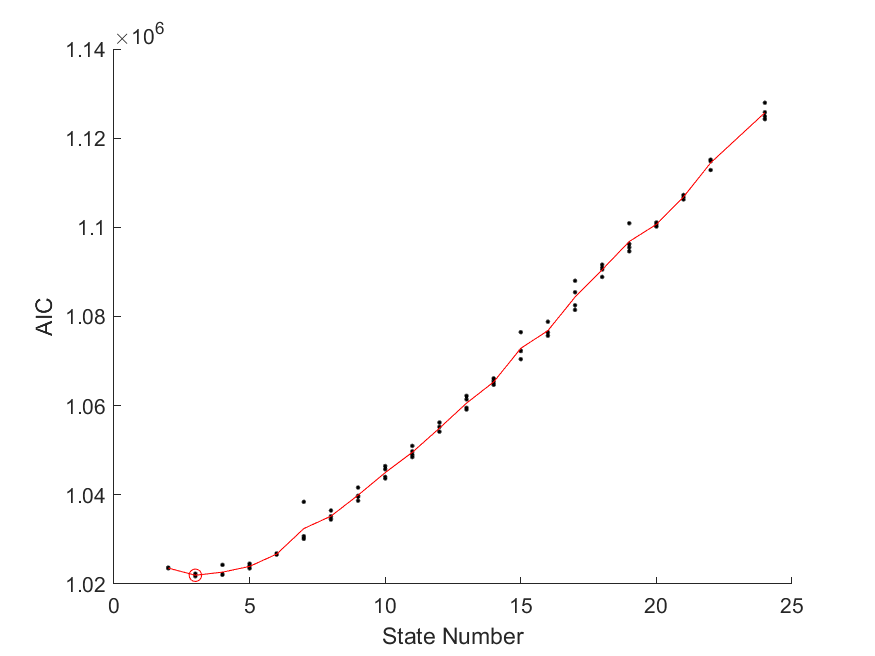
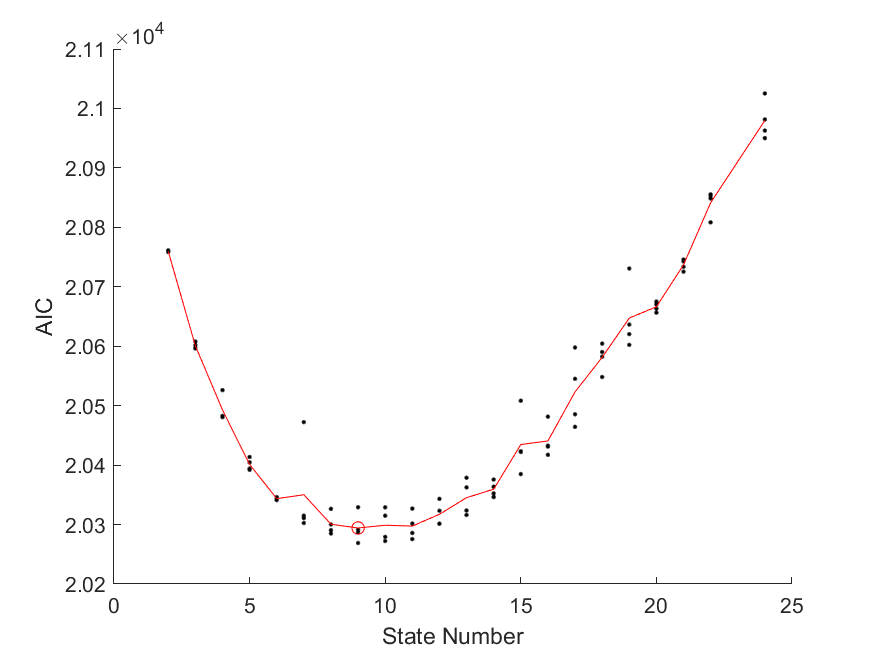
working on AIC

diff --git a/code/modeling/model_select_HMM.m b/code/modeling/model_select_HMM.m
@@ -7,7 +7,7 @@ file_list = dir('.\data_midway\hn_trained');
 folder = file_list(1).folder;
 file_list = {file_list.name};
 
-dataset_to_evaluate = 'train';
+dataset_to_evaluate = 'test';
 
 if (meta.crosstrain == 0) || (meta.crosstrain == 3) % 0: none || 3: both tasks together
     model_files = cellfun(@(x)[folder '\' x],file_list(...
@@ -34,7 +34,7 @@ for iStateNum = state_num_range % for each state num
         hn_trained_temp = load(model_files{endsWith(model_files,['_' num2str(iStateNum) '_states_CT0.mat'])},'hn_trained'); % load their models
         hn_trained_temp = hn_trained_temp.hn_trained;
         num_states_temp = size(hn_trained_temp{1}.a,1);
-        num_params(num_states_temp-1) = (iStateNum * (iStateNum-1)) + numel(hn_trained_temp{1, 1}.prior) + numel(hn_trained_temp{1, 1}.b(2:end,:,:));
+        num_params(num_states_temp-1) = (iStateNum * (iStateNum-1));% + numel(hn_trained_temp{1, 1}.prior) + numel(hn_trained_temp{1, 1}.b(2:end,:,:));
         num_states_for_plotting(num_states_temp-1) = num_states_temp;
         % decode ALL trials
         for iIter = 1:numel(hn_trained_temp)
@@ -51,16 +51,16 @@ for iStateNum = state_num_range % for each state num
         disp("we're missing something");
     end
 end
-ll_sum_model_select = sum(dc_temp_ll_model_select,3);
-ll_sum_train = sum(dc_temp_ll_train,3);
-ll_sum_test = sum(dc_temp_ll_test,3);
+ll_mean_model_select = mean(dc_temp_ll_model_select,3);
+ll_mean_train = mean(dc_temp_ll_train,3);
+ll_mean_test = mean(dc_temp_ll_test,3);
 %%
 if strcmp(dataset_to_evaluate,'train')
-    LL = ll_sum_train;
+    LL = ll_mean_train;
 elseif strcmp(dataset_to_evaluate,'test')
-    LL = ll_sum_test;
+    LL = ll_mean_test;
 elseif strcmp(dataset_to_evaluate,'model_select')
-    LL = ll_sum_model_select;
+    LL = ll_mean_model_select;
 end
 k = num_params;
 AIC = [];
@@ -75,15 +75,15 @@ AIC = AIC(AIC ~= 0);
 AIC_state_nums = AIC_state_nums(AIC_state_nums ~= 0);
 
 % get rid of weird matlab dropouts
-AIC = AIC(AIC > mean(AIC)/2);
+AIC_plot = AIC(AIC > mean(AIC)/2);
 AIC_state_nums = AIC_state_nums(AIC > mean(AIC)/2);
 
 %%
-testfit = fit(AIC_state_nums',AIC','poly2');
+testfit = fit(AIC_state_nums',AIC_plot','poly2');
 
 % taking average
 for iState = unique(AIC_state_nums)
-    AIC_mean(iState) = mean(AIC(AIC_state_nums == iState));
+    AIC_mean(iState) = mean(AIC_plot(AIC_state_nums == iState));
     AIC_mean_state_num(iState) = iState;
 end
 AIC_mean = AIC_mean(AIC_mean ~= 0);
@@ -94,7 +94,7 @@ best_num_states = AIC_mean_state_num(AIC_mean == min(AIC_mean));
 %% Plotting
 % plot all the "model-select" trials dc ll together
 figure('color','white','visible','off'); hold on
-plot(AIC_state_nums,AIC,'k.')
+plot(AIC_state_nums,AIC_plot,'k.')
 plot(AIC_mean_state_num,AIC_mean,'r-')
 plot(best_num_states,min(AIC_mean),'ro','DisplayName','Optimal State Number');
 xlabel('State Number')

diff --git a/code/processing/Raju_data_to_midway_prep.m b/code/processing/Raju_data_to_midway_prep.m
@@ -16,9 +16,9 @@ bad_trials = [4;10;30;43;44;46;53;66;71;78;79;84;85;91;106;107;118;128;141;142;1
 meta.bin_size = bin_size;
 meta.subject = subject;
 meta.crosstrain = 0;
-meta.TRAIN_PORTION = 0.8; % percent
-meta.MODEL_SELECT_PORTION = 0.1;
-meta.TEST_PORTION = 0.1;
+meta.TRAIN_PORTION = 0.75; % percent
+meta.MODEL_SELECT_PORTION = 0;
+meta.TEST_PORTION = 0.25;
 meta.task = task;
 [data,meta] = assign_trials_to_HMM_group(data,meta);
 
